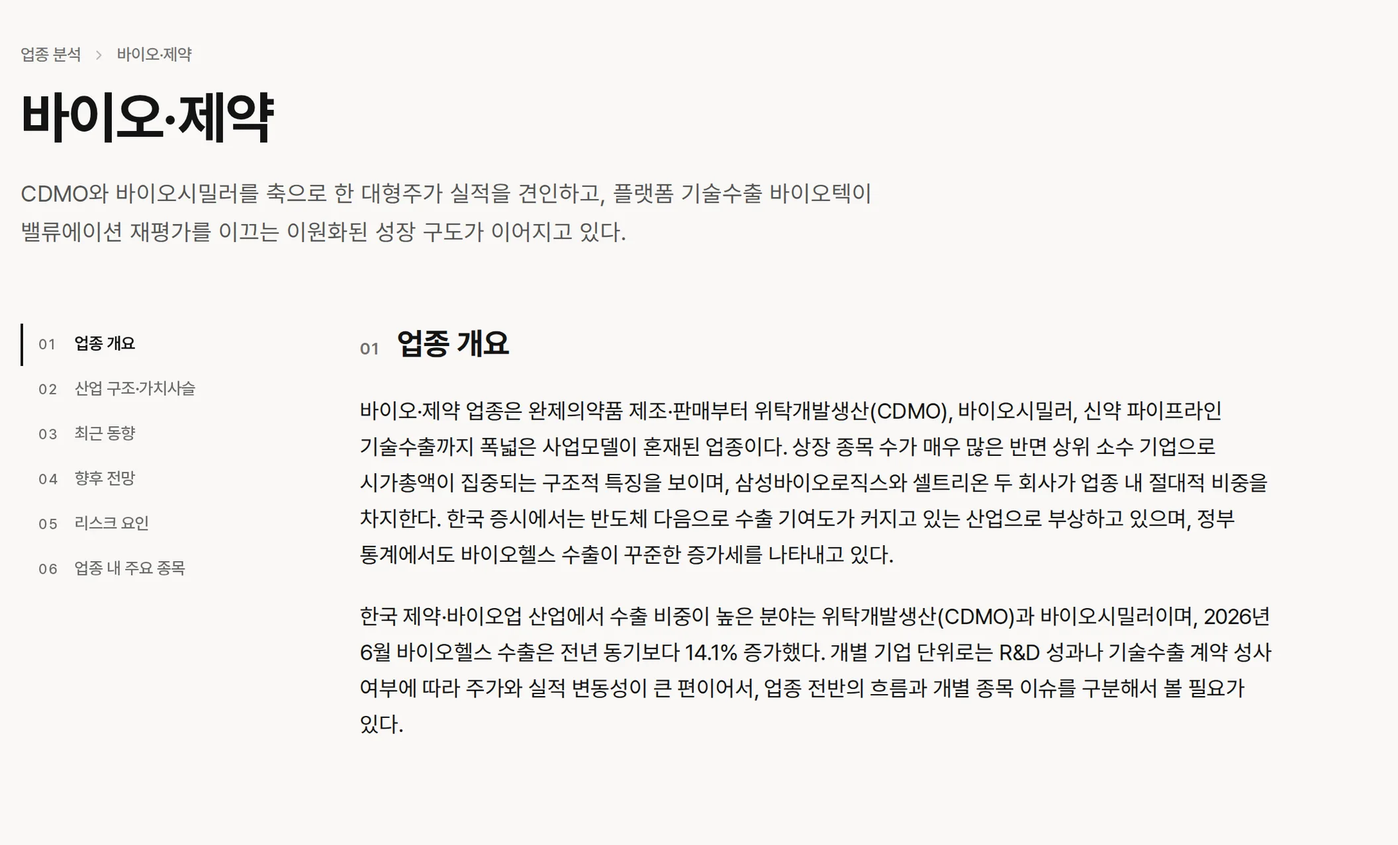
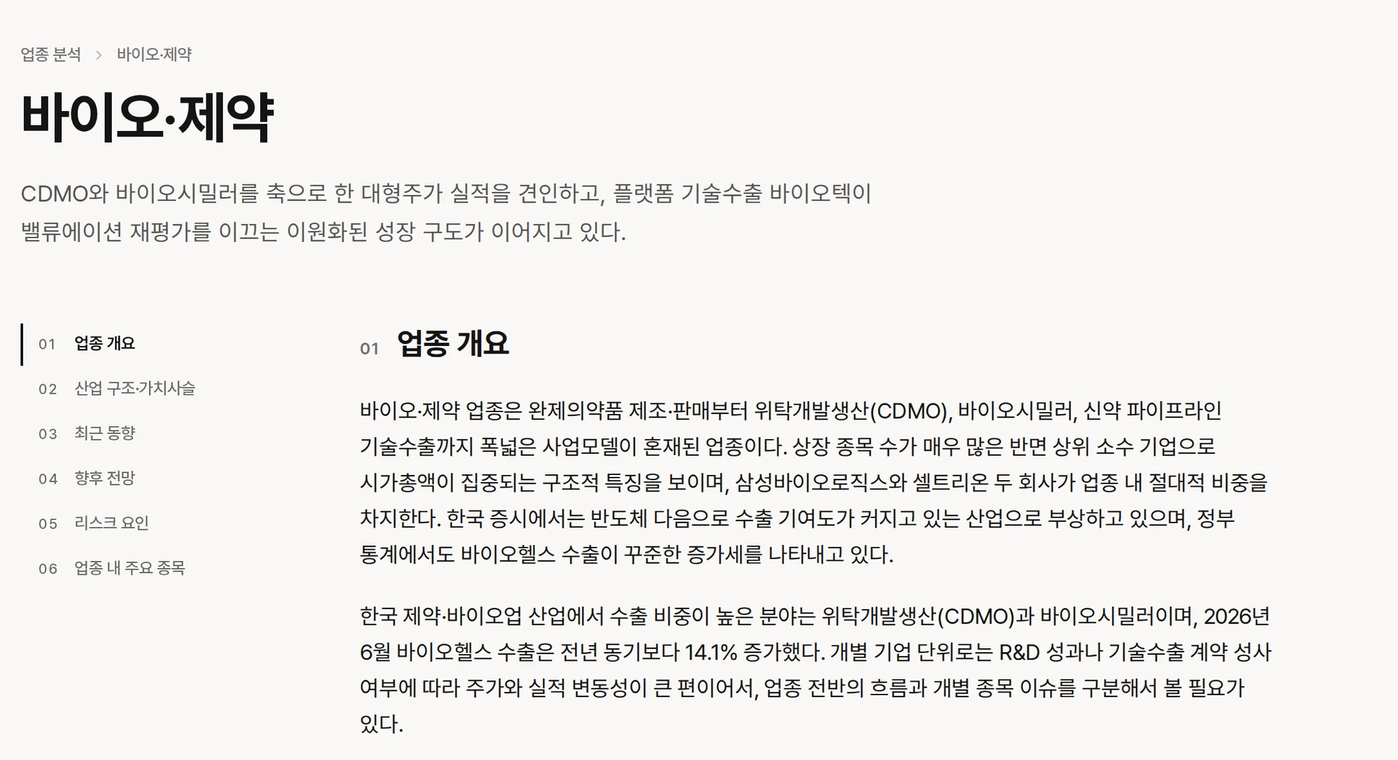
랜딩 업종 절 — 컴퓨터 화면 그림의 흐려지는 범위를 리포트 절과 같게
제목 비침을 고칠 때(#308) 업종 절 그림만 흐림을 아래 여백 64px 로 줄여
리포트 절과 흐려지는 범위가 달랐다(리포트 절은 그림 아래쪽 약 39%).

- .shot.full 이 위아래 여백 48px 과 마스크를 .shot 그대로 쓴다 — 흐림은
  그림 높이의 61~62% 에서 시작해 맨 아래에서 사라진다(두 절 모두)
- 그림 위치는 그대로다(바깥 여백 48→24px, 안쪽 여백 24→48px)
- 데스크톱 화면은 01 업종 개요의 마지막 글줄 아래 18px 에서 끊는다(TAIL) —
  리포트 절처럼 글이 그림 끝에서 풀리고, 다음 절 제목은 여전히 비치지 않는다
- 휴대폰 화면의 흐림도 두 절이 같은 값을 쓴다

Claude-Session: https://claude.ai/code/session_01V9w7AkGYKinAos3GPMJT9m

diff --git a/preview/concepts/landing/index.html b/preview/concepts/landing/index.html
@@ -1,4 +1,4 @@
-<!doctype html><html lang="ko"><head><meta charset="utf-8"><meta name="viewport" content="width=device-width,initial-scale=1,viewport-fit=cover"><meta name="robots" content="noindex,nofollow"><meta name="theme-color" content="#141414"><title>KOSAI — 국내 상장 2,682개 종목의 기업 분석 리포트</title><meta name="description" content="국내 상장 2,682개 종목의 기업 분석 리포트와 모닝브리핑, 업종 분석을 제공합니다."><meta property="og:title" content="KOSAI — 증권사가 다루지 않는 종목까지"><meta property="og:description" content="국내 상장 2,682개 종목의 기업 분석 리포트"><link rel="stylesheet" href="../../../fonts/pretendard-subset.css"><link rel="stylesheet" href="landing.css"><script>(function(){var t='light';try{t=localStorage.getItem('kos-theme')||'light'}catch(e){}var r=document.documentElement;r.setAttribute('data-theme',t);r.classList.add('band-top');if('IntersectionObserver' in window&&!matchMedia('(prefers-reduced-motion: reduce)').matches)r.classList.add('rv-on');document.querySelector('meta[name="theme-color"]').setAttribute('content',t==='dark'?'#1c1c1e':'#141414')})();</script></head><body><div id="kosEdgeTop" aria-hidden="true"></div><div id="kosEdgeBot" aria-hidden="true"></div><nav class="nav on-band" id="nav"><div class="nav-in"><a class="brand" href="#"><img class="lt" src="../../../assets/kosai-wordmark-black.png" alt="KOSAI"><img class="dk" src="../../../assets/kosai-wordmark-white.png" alt="KOSAI"></a><div class="links"><a href="#">홈</a><a href="#report">리포트</a><a href="#sectors">업종 분석</a><a href="#">관심종목</a><a href="#brief">모닝브리핑</a></div><div class="right"><a class="login" href="#">로그인</a><button class="ib" id="themeBtn" aria-label="테마 전환"><svg viewBox="0 0 24 24" id="themeIcon"><path d="M21 12.8A9 9 0 1 1 11.2 3a7 7 0 0 0 9.8 9.8z"/></svg></button><button class="ib menu" id="menuBtn" aria-label="메뉴" aria-expanded="false" aria-controls="mmenu"><svg class="ham" viewBox="0 0 24 24"><path d="M4 7h16M4 12h16M4 17h16"/></svg><svg class="x" viewBox="0 0 24 24"><path d="M6 6l12 12M18 6L6 18"/></svg></button></div></div></nav><div class="mmenu" id="mmenu"><div class="mm-links"><a href="#">홈</a><a href="#report">리포트</a><a href="#sectors">업종 분석</a><a href="#">관심종목</a><a href="#brief">모닝브리핑</a></div><div class="sep"></div><div class="mm-auth"><a href="#">로그인</a><a href="#">회원가입</a></div><div class="mm-foot"><a href="#">회사 소개</a><a href="#">문의하기</a><a href="#">피드백</a><a href="#">이용약관</a><a href="#">개인정보 처리방침</a></div></div><main><header class="hero dz" id="hero"><div class="hero-in w"><h1>증권사가 다루지 않는<br>종목까지</h1><p class="lede"><span class="s">국내 상장 <span class="num">2,682</span>개 종목의 기업 분석 리포트를 제공합니다.</span></p><form class="search" role="search" onsubmit="return false"><svg viewBox="0 0 24 24"><circle cx="11" cy="11" r="7"/><path d="M21 21l-3.5-3.5"/></svg><input placeholder="종목명 또는 종목코드" aria-label="종목 검색" autocomplete="off"><button class="btn btn-ink" type="button">리포트 찾기</button></form><div class="alt"><a class="more" href="#">전체 리포트 보기 <svg class="i" viewBox="0 0 24 24"><path d="M5 12h14M13 6l6 6-6 6"/></svg></a></div></div><div class="orb-box" aria-hidden="true"><canvas class="orb" id="orb"></canvas></div><script type="application/json" id="orbData">{"n":2682,"r":[22,56,85,116,120,137,169,174,247,261,272,273,278,288,293,297,369,399,417,537,579,586,629,636,694,721,722,727,732,735,740,794,796,811,821,875,890,907,912,923,969,1052,1055,1072,1108,1174,1192,1220,1275,1312,1317,1346,1350,1411,1419,1442,1527,1578,1585,1628,1672,1718,1724,1736,1745,1828,1866,1874,1899,1948,1956,1974,1977,1996,2001,2007,2102,2148,2173,2187,2195,2295,2319,2328,2331,2369,2404,2409,2421,2441,2534,2563,2565,2570,2577,2601,2616,2622]}</script></header><section class="sec w solo stat" id="gap"><h2 class="stat-h rv"><span class="h2">증권사 리포트가 없는<br class="m"> 국내 상장사</span> <span class="cnt stat-n">58.8%</span></h2><p class="sub rv"><span class="s">지난해 증권사 기업분석 보고서가 발간되지 않은 기업은 1,573개사입니다.</span> <span class="s">KOSAI는 해당 기업에 대해서도 분석 리포트를 제공합니다.</span></p><p class="src rv">자료: 한국IR협의회 기업리서치센터, 2025년 상장사 2,674개사 집계</p></section><section class="sec w" id="report"><div class="split"><div class="tx"><p class="eyebrow rv">리포트</p><h2 class="h2 rv">한 편에 담은<br>기업 분석</h2><p class="sub rv"><span class="s">사업 구조와 실적, 업황, 전망, 리스크를 차례로 정리합니다.</span> <span class="s">강세 요인과 약세 요인을 함께 제시해 어느 한쪽으로 치우치지 않습니다.</span></p></div><figure class="shot" role="img" aria-label="KOSAI 기업 분석 리포트의 실제 화면. 목차와 리포트 개요, 사업 구조, 실적 추이가 차례로 보입니다."><div class="scr desk"><img class="lt" src="img/report-desk-light.webp" width="1840" height="1413" alt="" loading="lazy" decoding="async"><img class="dk" src="img/report-desk-dark.webp" width="1840" height="1413" alt="" loading="lazy" decoding="async"></div><div class="scr m1"><img class="lt" src="img/report-m1-light.webp" width="900" height="1702" alt="" loading="lazy" decoding="async"><img class="dk" src="img/report-m1-dark.webp" width="900" height="1702" alt="" loading="lazy" decoding="async"></div><div class="scr m2"><img class="lt" src="img/report-m2-light.webp" width="900" height="1477" alt="" loading="lazy" decoding="async"><img class="dk" src="img/report-m2-dark.webp" width="900" height="1477" alt="" loading="lazy" decoding="async"></div></figure></div></section><section class="sec w solo"><h2 class="h2 rv">매수도 매도도<br>권하지 않습니다</h2><p class="sub rv"><span class="s">KOSAI는 자체 투자의견과 목표주가를 제시하지 않습니다.</span> <span class="s">투자 판단에 필요한 사실과 근거를 정리하는 데 집중합니다.</span></p></section><section class="sec w trust"><h2 class="h2 rv">리포트의<br>세 가지 원칙</h2><ul class="proof"><li class="rv"><h3>공시 원본 수치</h3><p><span class="s">실적 표와 차트의 수치는 금융감독원 전자공시(DART) 원본에서 가져오며, AI가 생성하지 않습니다.</span></p></li><li class="rv"><h3>출처 공개</h3><p><span class="s">분석의 근거가 된 자료를 리포트마다 출처로 공개합니다.</span> <span class="s">한 편당 평균 17.5건입니다.</span></p></li><li class="rv"><h3>발행 전 검수</h3><p><span class="s">투자 권유로 읽힐 수 있는 표현은 발행 전에 자동으로 검수해 수정합니다.</span></p></li></ul><a class="more rv" href="#">작성 방식 자세히 보기 <svg class="i" viewBox="0 0 24 24"><path d="M5 12h14M13 6l6 6-6 6"/></svg></a></section><section class="sec w" id="fresh"><div class="split rev"><div class="tx"><h2 class="h2 rv">공시와 함께<br>갱신되는 리포트</h2><p class="sub rv"><span class="s">분기보고서와 반기보고서, 사업보고서가 공시되면 리포트를 새로 작성합니다.</span> <span class="s">주가와 밸류에이션 지표는 거래일마다 반영합니다.</span></p></div><figure class="cyc" id="cyc" role="img" aria-label="2026년 한 해를 원으로 나타낸 그림입니다. 안쪽 선은 12월 결산 법인의 정기보고서 제출 기간입니다."><div class="cyc-box" id="cycBox"></div><figcaption class="cyc-lg"><span><i class="g-ar"></i>정기보고서 제출 기간<em>12월 결산 법인 기준</em></span></figcaption><script type="application/json" id="cycData">{"years":{"2026":{"y":2026,"n":365,"win":[["사업보고서",0,89,3,31],["1분기보고서",90,134,5,15],["반기보고서",181,225,8,14],["3분기보고서",273,319,11,16]]},"2027":{"y":2027,"n":365,"win":[["사업보고서",0,89,3,31],["1분기보고서",90,136,5,17],["반기보고서",181,228,8,17],["3분기보고서",273,318,11,15]]},"2028":{"y":2028,"n":366,"win":[["사업보고서",0,89,3,30],["1분기보고서",91,135,5,15],["반기보고서",182,226,8,14],["3분기보고서",274,318,11,14]]},"2029":{"y":2029,"n":365,"win":[["사업보고서",0,91,4,2],["1분기보고서",90,134,5,15],["반기보고서",181,225,8,14],["3분기보고서",273,317,11,14]]},"2030":{"y":2030,"n":365,"win":[["사업보고서",0,90,4,1],["1분기보고서",90,134,5,15],["반기보고서",181,225,8,14],["3분기보고서",273,317,11,14]]}},"t":{"label":"{y}년 한 해를 원으로 나타낸 그림입니다. 안쪽 선은 12월 결산 법인의 정기보고서 제출 기간입니다.","next":"{w} 제출 기한은 {m}월 {d}일입니다.","mon":"{m}월","due":"{m}월 {d}일까지","today":"오늘"}}</script></figure></div></section><section class="sec w stack" id="sectors"><p class="eyebrow rv">업종 분석</p><h2 class="h2 rv">30개 업종의<br>분석 리포트</h2><p class="sub rv"><span class="s">업종마다 산업 구조와 최근 동향, 향후 전망, 리스크 요인을 분석합니다.</span> <span class="s">개별 기업을 산업 전체의 맥락에서 살펴볼 수 있습니다.</span></p><a class="more rv" href="#">전체 업종 보기 <svg class="i" viewBox="0 0 24 24"><path d="M5 12h14M13 6l6 6-6 6"/></svg></a><figure class="shot full" role="img" aria-label="KOSAI 업종 분석의 실제 화면. 업종 요약과 목차, 업종 개요, 리스크 요인이 차례로 보입니다."><div class="scr desk"><img class="lt" src="img/sector-desk-light.webp" width="2112" height="1277" alt="" loading="lazy" decoding="async"><img class="dk" src="img/sector-desk-dark.webp" width="2112" height="1277" alt="" loading="lazy" decoding="async"></div><div class="scr m1"><img class="lt" src="img/sector-m1-light.webp" width="900" height="1702" alt="" loading="lazy" decoding="async"><img class="dk" src="img/sector-m1-dark.webp" width="900" height="1702" alt="" loading="lazy" decoding="async"></div><div class="scr m2"><img class="lt" src="img/sector-m2-light.webp" width="900" height="1477" alt="" loading="lazy" decoding="async"><img class="dk" src="img/sector-m2-dark.webp" width="900" height="1477" alt="" loading="lazy" decoding="async"></div></figure></section><section class="band dz" id="brief"><div class="w split"><div class="tx"><p class="eyebrow rv">모닝브리핑</p><h2 class="h2 rv">개장 전에 읽는<br>시장 브리핑</h2><p class="sub rv"><span class="s">전일 국내 증시와 간밤의 해외 시장, 주요 일정을 정리합니다.</span> <span class="s">발행 시각은 거래일 오전 7시 30분 전후입니다.</span></p><a class="more rv" href="#">제31호 읽기 <svg class="i" viewBox="0 0 24 24"><path d="M5 12h14M13 6l6 6-6 6"/></svg></a></div><figure class="slot" aria-label="사진 자리 — 개장 전 아침, 책상 위 휴대폰"><span class="st"><svg viewBox="0 0 24 24"><rect x="3.5" y="5" width="17" height="14" rx="2"/><path d="M3.5 16l5-5 4 4 3-3 5 5"/></svg>사진<span>1:1</span></span><figcaption>개장 전 아침, 책상 위 휴대폰</figcaption></figure></div></section><section class="end w"><h2 class="h2 rv">궁금한 종목의<br>리포트를 확인하세요</h2><div class="rv"><form class="search" role="search" onsubmit="return false"><svg viewBox="0 0 24 24"><circle cx="11" cy="11" r="7"/><path d="M21 21l-3.5-3.5"/></svg><input placeholder="종목명 또는 종목코드" aria-label="종목 검색" autocomplete="off"><button class="btn btn-ink" type="button">리포트 찾기</button></form></div></section></main><footer class="foot"><div class="w"><a class="brand" href="#"><img class="lt" src="../../../assets/kosai-wordmark-black.png" alt="KOSAI"><img class="dk" src="../../../assets/kosai-wordmark-white.png" alt="KOSAI"></a><div class="fgrid"><div class="fcol"><h4>서비스</h4><a href="#">홈</a><a href="#">리포트</a><a href="#">업종 분석</a><a href="#">관심종목</a><a href="#">모닝브리핑</a></div><div class="fcol"><h4>회사</h4><a href="#">회사 소개</a><a href="#">문의하기</a><a href="#">피드백</a></div><div class="fcol"><h4>정책</h4><a href="#">이용약관</a><a class="pp" href="#">개인정보 처리방침</a></div></div><div class="biz"><span>상호 코사이</span><span>대표 임범준</span><span>사업자등록번호 380-25-02019</span><span>주소 서울시 양천구 목동동로12길 50, 동성빌딩 4층 459호</span><span>이메일 hello@kosai.kr</span></div><div class="copy">© 2026 KOSAI</div></div></footer><script>(function(){var r=document.documentElement;if(!r.classList.contains('rv-on'))return;function bz(x){var lo=0,hi=1,t=x,u;for(var i=0;i<24;i++){t=(lo+hi)/2;u=1-t;if(3*u*u*t*.2+3*u*t*t*.2+t*t*t<x)lo=t;else hi=t}u=1-t;return 3*u*u*t*.7+3*u*t*t+t*t*t}function cnt(el,d){var s=el.textContent,m=s.match(/^(\d+)(?:\.(\d+))?(\D*)$/),tn=el.firstChild;if(!m||!tn||(document.fonts&&document.fonts.status!=='loaded'))return;var hd=el.parentNode,ip=m[1],fp=m[2]||'',to=parseFloat(ip+(fp?'.'+fp:'')),dp=fp.length,ch=s.split(''),h='',i,b,x=[],fs=parseFloat(getComputedStyle(el).fontSize),rg=document.createRange();for(i=0;i<ch.length;i++){rg.setStart(tn,i);rg.setEnd(tn,i+1);b=rg.getBoundingClientRect();x.push([b.left,b.width])}hd.setAttribute('aria-label',hd.textContent);el.setAttribute('aria-hidden','true');el.style.whiteSpace='nowrap';for(i=0;i<ch.length;i++)h+='<span>'+ch[i]+'</span>';el.innerHTML=h;var sp=el.children;for(i=0;i<sp.length;i++)sp[i].style.cssText='display:inline-block;text-align:center;width:'+((i<sp.length-1?x[i+1][0]-x[i][0]:x[i][1])/fs).toFixed(4)+'em';function show(v){var a=v.toFixed(dp).split('.'),n=ip.length,k;for(i=0;i<n;i++){k=a[0].length-n+i;sp[i].textContent=k>=0?a[0].charAt(k):''}for(i=0;i<dp;i++)sp[n+1+i].textContent=(a[1]||'').charAt(i)}show(0);var t0=null;function f(ts){if(t0===null)t0=ts+d*1000;var p=Math.max(0,Math.min(1,(ts-t0)/1000));if(p<1){show(to*bz(p));requestAnimationFrame(f)}else for(i=0;i<sp.length;i++)sp[i].textContent=ch[i]}requestAnimationFrame(f)}try{var io=new IntersectionObserver(function(es){var j=0;for(var k=0;k<es.length;k++){var e=es[k],t=e.target;if(e.isIntersecting){var d=Math.min(j++,5)*.08;t.style.setProperty('--d',d+'s');t.classList.add('in');io.unobserve(t);var c=t.querySelector('.cnt');if(c)cnt(c,d)}else if(e.boundingClientRect.top<0){t.classList.add('in');io.unobserve(t)}}},{rootMargin:'0px 0px -10% 0px'});var rv=document.querySelectorAll('.rv');for(var k=0;k<rv.length;k++)io.observe(rv[k])}catch(x){r.classList.remove('rv-on')}})();</script><script>(function(){
+<!doctype html><html lang="ko"><head><meta charset="utf-8"><meta name="viewport" content="width=device-width,initial-scale=1,viewport-fit=cover"><meta name="robots" content="noindex,nofollow"><meta name="theme-color" content="#141414"><title>KOSAI — 국내 상장 2,682개 종목의 기업 분석 리포트</title><meta name="description" content="국내 상장 2,682개 종목의 기업 분석 리포트와 모닝브리핑, 업종 분석을 제공합니다."><meta property="og:title" content="KOSAI — 증권사가 다루지 않는 종목까지"><meta property="og:description" content="국내 상장 2,682개 종목의 기업 분석 리포트"><link rel="stylesheet" href="../../../fonts/pretendard-subset.css"><link rel="stylesheet" href="landing.css"><script>(function(){var t='light';try{t=localStorage.getItem('kos-theme')||'light'}catch(e){}var r=document.documentElement;r.setAttribute('data-theme',t);r.classList.add('band-top');if('IntersectionObserver' in window&&!matchMedia('(prefers-reduced-motion: reduce)').matches)r.classList.add('rv-on');document.querySelector('meta[name="theme-color"]').setAttribute('content',t==='dark'?'#1c1c1e':'#141414')})();</script></head><body><div id="kosEdgeTop" aria-hidden="true"></div><div id="kosEdgeBot" aria-hidden="true"></div><nav class="nav on-band" id="nav"><div class="nav-in"><a class="brand" href="#"><img class="lt" src="../../../assets/kosai-wordmark-black.png" alt="KOSAI"><img class="dk" src="../../../assets/kosai-wordmark-white.png" alt="KOSAI"></a><div class="links"><a href="#">홈</a><a href="#report">리포트</a><a href="#sectors">업종 분석</a><a href="#">관심종목</a><a href="#brief">모닝브리핑</a></div><div class="right"><a class="login" href="#">로그인</a><button class="ib" id="themeBtn" aria-label="테마 전환"><svg viewBox="0 0 24 24" id="themeIcon"><path d="M21 12.8A9 9 0 1 1 11.2 3a7 7 0 0 0 9.8 9.8z"/></svg></button><button class="ib menu" id="menuBtn" aria-label="메뉴" aria-expanded="false" aria-controls="mmenu"><svg class="ham" viewBox="0 0 24 24"><path d="M4 7h16M4 12h16M4 17h16"/></svg><svg class="x" viewBox="0 0 24 24"><path d="M6 6l12 12M18 6L6 18"/></svg></button></div></div></nav><div class="mmenu" id="mmenu"><div class="mm-links"><a href="#">홈</a><a href="#report">리포트</a><a href="#sectors">업종 분석</a><a href="#">관심종목</a><a href="#brief">모닝브리핑</a></div><div class="sep"></div><div class="mm-auth"><a href="#">로그인</a><a href="#">회원가입</a></div><div class="mm-foot"><a href="#">회사 소개</a><a href="#">문의하기</a><a href="#">피드백</a><a href="#">이용약관</a><a href="#">개인정보 처리방침</a></div></div><main><header class="hero dz" id="hero"><div class="hero-in w"><h1>증권사가 다루지 않는<br>종목까지</h1><p class="lede"><span class="s">국내 상장 <span class="num">2,682</span>개 종목의 기업 분석 리포트를 제공합니다.</span></p><form class="search" role="search" onsubmit="return false"><svg viewBox="0 0 24 24"><circle cx="11" cy="11" r="7"/><path d="M21 21l-3.5-3.5"/></svg><input placeholder="종목명 또는 종목코드" aria-label="종목 검색" autocomplete="off"><button class="btn btn-ink" type="button">리포트 찾기</button></form><div class="alt"><a class="more" href="#">전체 리포트 보기 <svg class="i" viewBox="0 0 24 24"><path d="M5 12h14M13 6l6 6-6 6"/></svg></a></div></div><div class="orb-box" aria-hidden="true"><canvas class="orb" id="orb"></canvas></div><script type="application/json" id="orbData">{"n":2682,"r":[22,56,85,116,120,137,169,174,247,261,272,273,278,288,293,297,369,399,417,537,579,586,629,636,694,721,722,727,732,735,740,794,796,811,821,875,890,907,912,923,969,1052,1055,1072,1108,1174,1192,1220,1275,1312,1317,1346,1350,1411,1419,1442,1527,1578,1585,1628,1672,1718,1724,1736,1745,1828,1866,1874,1899,1948,1956,1974,1977,1996,2001,2007,2102,2148,2173,2187,2195,2295,2319,2328,2331,2369,2404,2409,2421,2441,2534,2563,2565,2570,2577,2601,2616,2622]}</script></header><section class="sec w solo stat" id="gap"><h2 class="stat-h rv"><span class="h2">증권사 리포트가 없는<br class="m"> 국내 상장사</span> <span class="cnt stat-n">58.8%</span></h2><p class="sub rv"><span class="s">지난해 증권사 기업분석 보고서가 발간되지 않은 기업은 1,573개사입니다.</span> <span class="s">KOSAI는 해당 기업에 대해서도 분석 리포트를 제공합니다.</span></p><p class="src rv">자료: 한국IR협의회 기업리서치센터, 2025년 상장사 2,674개사 집계</p></section><section class="sec w" id="report"><div class="split"><div class="tx"><p class="eyebrow rv">리포트</p><h2 class="h2 rv">한 편에 담은<br>기업 분석</h2><p class="sub rv"><span class="s">사업 구조와 실적, 업황, 전망, 리스크를 차례로 정리합니다.</span> <span class="s">강세 요인과 약세 요인을 함께 제시해 어느 한쪽으로 치우치지 않습니다.</span></p></div><figure class="shot" role="img" aria-label="KOSAI 기업 분석 리포트의 실제 화면. 목차와 리포트 개요, 사업 구조, 실적 추이가 차례로 보입니다."><div class="scr desk"><img class="lt" src="img/report-desk-light.webp" width="1840" height="1413" alt="" loading="lazy" decoding="async"><img class="dk" src="img/report-desk-dark.webp" width="1840" height="1413" alt="" loading="lazy" decoding="async"></div><div class="scr m1"><img class="lt" src="img/report-m1-light.webp" width="900" height="1702" alt="" loading="lazy" decoding="async"><img class="dk" src="img/report-m1-dark.webp" width="900" height="1702" alt="" loading="lazy" decoding="async"></div><div class="scr m2"><img class="lt" src="img/report-m2-light.webp" width="900" height="1477" alt="" loading="lazy" decoding="async"><img class="dk" src="img/report-m2-dark.webp" width="900" height="1477" alt="" loading="lazy" decoding="async"></div></figure></div></section><section class="sec w solo"><h2 class="h2 rv">매수도 매도도<br>권하지 않습니다</h2><p class="sub rv"><span class="s">KOSAI는 자체 투자의견과 목표주가를 제시하지 않습니다.</span> <span class="s">투자 판단에 필요한 사실과 근거를 정리하는 데 집중합니다.</span></p></section><section class="sec w trust"><h2 class="h2 rv">리포트의<br>세 가지 원칙</h2><ul class="proof"><li class="rv"><h3>공시 원본 수치</h3><p><span class="s">실적 표와 차트의 수치는 금융감독원 전자공시(DART) 원본에서 가져오며, AI가 생성하지 않습니다.</span></p></li><li class="rv"><h3>출처 공개</h3><p><span class="s">분석의 근거가 된 자료를 리포트마다 출처로 공개합니다.</span> <span class="s">한 편당 평균 17.5건입니다.</span></p></li><li class="rv"><h3>발행 전 검수</h3><p><span class="s">투자 권유로 읽힐 수 있는 표현은 발행 전에 자동으로 검수해 수정합니다.</span></p></li></ul><a class="more rv" href="#">작성 방식 자세히 보기 <svg class="i" viewBox="0 0 24 24"><path d="M5 12h14M13 6l6 6-6 6"/></svg></a></section><section class="sec w" id="fresh"><div class="split rev"><div class="tx"><h2 class="h2 rv">공시와 함께<br>갱신되는 리포트</h2><p class="sub rv"><span class="s">분기보고서와 반기보고서, 사업보고서가 공시되면 리포트를 새로 작성합니다.</span> <span class="s">주가와 밸류에이션 지표는 거래일마다 반영합니다.</span></p></div><figure class="cyc" id="cyc" role="img" aria-label="2026년 한 해를 원으로 나타낸 그림입니다. 안쪽 선은 12월 결산 법인의 정기보고서 제출 기간입니다."><div class="cyc-box" id="cycBox"></div><figcaption class="cyc-lg"><span><i class="g-ar"></i>정기보고서 제출 기간<em>12월 결산 법인 기준</em></span></figcaption><script type="application/json" id="cycData">{"years":{"2026":{"y":2026,"n":365,"win":[["사업보고서",0,89,3,31],["1분기보고서",90,134,5,15],["반기보고서",181,225,8,14],["3분기보고서",273,319,11,16]]},"2027":{"y":2027,"n":365,"win":[["사업보고서",0,89,3,31],["1분기보고서",90,136,5,17],["반기보고서",181,228,8,17],["3분기보고서",273,318,11,15]]},"2028":{"y":2028,"n":366,"win":[["사업보고서",0,89,3,30],["1분기보고서",91,135,5,15],["반기보고서",182,226,8,14],["3분기보고서",274,318,11,14]]},"2029":{"y":2029,"n":365,"win":[["사업보고서",0,91,4,2],["1분기보고서",90,134,5,15],["반기보고서",181,225,8,14],["3분기보고서",273,317,11,14]]},"2030":{"y":2030,"n":365,"win":[["사업보고서",0,90,4,1],["1분기보고서",90,134,5,15],["반기보고서",181,225,8,14],["3분기보고서",273,317,11,14]]}},"t":{"label":"{y}년 한 해를 원으로 나타낸 그림입니다. 안쪽 선은 12월 결산 법인의 정기보고서 제출 기간입니다.","next":"{w} 제출 기한은 {m}월 {d}일입니다.","mon":"{m}월","due":"{m}월 {d}일까지","today":"오늘"}}</script></figure></div></section><section class="sec w stack" id="sectors"><p class="eyebrow rv">업종 분석</p><h2 class="h2 rv">30개 업종의<br>분석 리포트</h2><p class="sub rv"><span class="s">업종마다 산업 구조와 최근 동향, 향후 전망, 리스크 요인을 분석합니다.</span> <span class="s">개별 기업을 산업 전체의 맥락에서 살펴볼 수 있습니다.</span></p><a class="more rv" href="#">전체 업종 보기 <svg class="i" viewBox="0 0 24 24"><path d="M5 12h14M13 6l6 6-6 6"/></svg></a><figure class="shot full" role="img" aria-label="KOSAI 업종 분석의 실제 화면. 업종 요약과 목차, 업종 개요, 리스크 요인이 차례로 보입니다."><div class="scr desk"><img class="lt" src="img/sector-desk-light.webp" width="2112" height="1149" alt="" loading="lazy" decoding="async"><img class="dk" src="img/sector-desk-dark.webp" width="2112" height="1149" alt="" loading="lazy" decoding="async"></div><div class="scr m1"><img class="lt" src="img/sector-m1-light.webp" width="900" height="1702" alt="" loading="lazy" decoding="async"><img class="dk" src="img/sector-m1-dark.webp" width="900" height="1702" alt="" loading="lazy" decoding="async"></div><div class="scr m2"><img class="lt" src="img/sector-m2-light.webp" width="900" height="1477" alt="" loading="lazy" decoding="async"><img class="dk" src="img/sector-m2-dark.webp" width="900" height="1477" alt="" loading="lazy" decoding="async"></div></figure></section><section class="band dz" id="brief"><div class="w split"><div class="tx"><p class="eyebrow rv">모닝브리핑</p><h2 class="h2 rv">개장 전에 읽는<br>시장 브리핑</h2><p class="sub rv"><span class="s">전일 국내 증시와 간밤의 해외 시장, 주요 일정을 정리합니다.</span> <span class="s">발행 시각은 거래일 오전 7시 30분 전후입니다.</span></p><a class="more rv" href="#">제31호 읽기 <svg class="i" viewBox="0 0 24 24"><path d="M5 12h14M13 6l6 6-6 6"/></svg></a></div><figure class="slot" aria-label="사진 자리 — 개장 전 아침, 책상 위 휴대폰"><span class="st"><svg viewBox="0 0 24 24"><rect x="3.5" y="5" width="17" height="14" rx="2"/><path d="M3.5 16l5-5 4 4 3-3 5 5"/></svg>사진<span>1:1</span></span><figcaption>개장 전 아침, 책상 위 휴대폰</figcaption></figure></div></section><section class="end w"><h2 class="h2 rv">궁금한 종목의<br>리포트를 확인하세요</h2><div class="rv"><form class="search" role="search" onsubmit="return false"><svg viewBox="0 0 24 24"><circle cx="11" cy="11" r="7"/><path d="M21 21l-3.5-3.5"/></svg><input placeholder="종목명 또는 종목코드" aria-label="종목 검색" autocomplete="off"><button class="btn btn-ink" type="button">리포트 찾기</button></form></div></section></main><footer class="foot"><div class="w"><a class="brand" href="#"><img class="lt" src="../../../assets/kosai-wordmark-black.png" alt="KOSAI"><img class="dk" src="../../../assets/kosai-wordmark-white.png" alt="KOSAI"></a><div class="fgrid"><div class="fcol"><h4>서비스</h4><a href="#">홈</a><a href="#">리포트</a><a href="#">업종 분석</a><a href="#">관심종목</a><a href="#">모닝브리핑</a></div><div class="fcol"><h4>회사</h4><a href="#">회사 소개</a><a href="#">문의하기</a><a href="#">피드백</a></div><div class="fcol"><h4>정책</h4><a href="#">이용약관</a><a class="pp" href="#">개인정보 처리방침</a></div></div><div class="biz"><span>상호 코사이</span><span>대표 임범준</span><span>사업자등록번호 380-25-02019</span><span>주소 서울시 양천구 목동동로12길 50, 동성빌딩 4층 459호</span><span>이메일 hello@kosai.kr</span></div><div class="copy">© 2026 KOSAI</div></div></footer><script>(function(){var r=document.documentElement;if(!r.classList.contains('rv-on'))return;function bz(x){var lo=0,hi=1,t=x,u;for(var i=0;i<24;i++){t=(lo+hi)/2;u=1-t;if(3*u*u*t*.2+3*u*t*t*.2+t*t*t<x)lo=t;else hi=t}u=1-t;return 3*u*u*t*.7+3*u*t*t+t*t*t}function cnt(el,d){var s=el.textContent,m=s.match(/^(\d+)(?:\.(\d+))?(\D*)$/),tn=el.firstChild;if(!m||!tn||(document.fonts&&document.fonts.status!=='loaded'))return;var hd=el.parentNode,ip=m[1],fp=m[2]||'',to=parseFloat(ip+(fp?'.'+fp:'')),dp=fp.length,ch=s.split(''),h='',i,b,x=[],fs=parseFloat(getComputedStyle(el).fontSize),rg=document.createRange();for(i=0;i<ch.length;i++){rg.setStart(tn,i);rg.setEnd(tn,i+1);b=rg.getBoundingClientRect();x.push([b.left,b.width])}hd.setAttribute('aria-label',hd.textContent);el.setAttribute('aria-hidden','true');el.style.whiteSpace='nowrap';for(i=0;i<ch.length;i++)h+='<span>'+ch[i]+'</span>';el.innerHTML=h;var sp=el.children;for(i=0;i<sp.length;i++)sp[i].style.cssText='display:inline-block;text-align:center;width:'+((i<sp.length-1?x[i+1][0]-x[i][0]:x[i][1])/fs).toFixed(4)+'em';function show(v){var a=v.toFixed(dp).split('.'),n=ip.length,k;for(i=0;i<n;i++){k=a[0].length-n+i;sp[i].textContent=k>=0?a[0].charAt(k):''}for(i=0;i<dp;i++)sp[n+1+i].textContent=(a[1]||'').charAt(i)}show(0);var t0=null;function f(ts){if(t0===null)t0=ts+d*1000;var p=Math.max(0,Math.min(1,(ts-t0)/1000));if(p<1){show(to*bz(p));requestAnimationFrame(f)}else for(i=0;i<sp.length;i++)sp[i].textContent=ch[i]}requestAnimationFrame(f)}try{var io=new IntersectionObserver(function(es){var j=0;for(var k=0;k<es.length;k++){var e=es[k],t=e.target;if(e.isIntersecting){var d=Math.min(j++,5)*.08;t.style.setProperty('--d',d+'s');t.classList.add('in');io.unobserve(t);var c=t.querySelector('.cnt');if(c)cnt(c,d)}else if(e.boundingClientRect.top<0){t.classList.add('in');io.unobserve(t)}}},{rootMargin:'0px 0px -10% 0px'});var rv=document.querySelectorAll('.rv');for(var k=0;k<rv.length;k++)io.observe(rv[k])}catch(x){r.classList.remove('rv-on')}})();</script><script>(function(){
 var fg=document.getElementById('cyc'),box=document.getElementById('cycBox'),el=document.getElementById('cycData');if(!fg||!box||!el)return;
 var A=JSON.parse(el.textContent),Y=A.years,T=A.t,ks=Object.keys(Y).sort(),D=null,ti=-1,day='';
 function fill(s,o){return s.replace(/\{(\w+)\}/g,function(m,k){return k in o?o[k]:m})}

diff --git a/scripts/concepts/landing_art.py b/scripts/concepts/landing_art.py
@@ -46,14 +46,16 @@ NAV = 60   # 머리 줄 높이 — 찍은 뒤 덜어 낸다
 M1 = 700 + 390 * .25   # 왼쪽 휴대폰 화면의 아래 끝 — 오른쪽(700)보다 화면 폭의 25% 길다. 랜딩의 .m2{margin-top:12%} ÷ 화면 폭 48%
 # 이름: (화면 폭, 높이, 배율, 머리 아래 올 절(None 이면 맨 위 그대로), 그 절의 화면 위 거리, 자를 범위(화면 좌표 x0 · y0 · x1 · y1),
 #        저장 폭, 켜져 있어야 할 목차, 아래를 끊을 자리(선택자와 그 위쪽 여유 — 자를 범위의 y1 보다 위면 거기서 끊는다, None 이면 y1 그대로.
-#        데스크톱 화면은 거기서 자르고, 휴대폰 화면은 크기를 지키려고 그 아래를 바탕색으로 덮는다))
+#        데스크톱 화면은 그 위 마지막 글줄 아래 TAIL 에서 자르고, 휴대폰 화면은 크기를 지키려고 그 아래를 바탕색으로 덮는다))
+TAIL = 18   # 데스크톱 화면을 끊을 때 마지막 글줄 아래에 남기는 여백 — 리포트 절 데스크톱 화면의 마지막 글줄도 그림 끝에서 이만큼 위다
 SHOTS = {
     "desk": (1280, 1000, 2, "#s01", 92, (56, NAV, 1280, 1000), 1840, "01", None),
     "m1": (390, 844, 3, "#s01", 112, (0, NAV, 390, M1), 900, "01", ("#s02", 8)),
     "m2": (390, 844, 3, "#s03", 112, (0, NAV, 390, 700), 900, "03", ("#s04", 8)),
 }
-# 업종 화면 — 데스크톱은 본문 폭(1056px)에 16px 씩 여유를 둔 범위를 2112px(2배)로 담는다. 아래는 다음 절(02) 제목 8px 위, 01 업종 개요가
-# 끝난 여백에서 끊는다 — 제목 윗부분이 그림 끝에 흐리게 비쳤다(사장 2026-10-01 "글씨가 살짝 보이는데 저거 거슬리네")
+# 업종 화면 — 데스크톱은 본문 폭(1056px)에 16px 씩 여유를 둔 범위를 2112px(2배)로 담는다. 아래는 다음 절(02) 제목에 닿기 전, 01 업종 개요의
+# 마지막 글줄 아래 TAIL 에서 끊는다 — 처음에는 제목 윗부분이 그림 끝에 흐리게 비쳤고(사장 2026-10-01 "글씨가 살짝 보이는데 저거 거슬리네"),
+# 그 뒤 여백까지 담았을 때는 리포트 절처럼 글이 그림 끝에서 풀리지 않아 흐려지는 범위가 달라 보였다(사장 "왜 달라??")
 SECTOR_SHOTS = {
     "desk": (1280, 900, 2, None, 0, (96, 84, 1184, 760), 2112, "01", ("#s02", 8)),
     "m1": (390, 844, 3, None, 0, (0, NAV, 390, M1), 900, "01", ("#s02", 8)),
@@ -63,14 +65,16 @@ HIDE = ".stats,.stats-note{display:none!important}"   # 업종 화면의 매일 
 
 
 # 끊는 선(y)에 글줄이 걸쳐 있으면 그 줄 위로 올린다 — 올린 자리에 또 걸치면 거듭. 그 위 줄이 선에 6px 안으로 붙어 있어도 뺀다(가장자리에
-# 붙은 줄은 잘린 것처럼 보인다 · 6px 은 본문 줄 사이 틈보다 작아 한 줄만 빠진다). 글줄은 글자 칸(Range 의 줄 상자)으로 잰다
+# 붙은 줄은 잘린 것처럼 보인다 · 6px 은 본문 줄 사이 틈보다 작아 한 줄만 빠진다). 글줄은 글자 칸(Range 의 줄 상자)으로 잰다.
+# 돌려주는 값은 [끊는 선, 그 위 마지막 글줄의 아래]
 LAST_LINE = """([x0,x1,y])=>{const rows=[];const tw=document.createTreeWalker(document.body,NodeFilter.SHOW_TEXT);
   for(let n;(n=tw.nextNode());){if(!n.textContent.trim())continue;const r=document.createRange();r.selectNodeContents(n);
     for(const b of r.getClientRects())if(b.width&&b.height&&b.right>x0&&b.left<x1)rows.push([b.top,b.bottom])}
   for(const t of document.querySelectorAll('svg text')){const b=t.getBoundingClientRect();if(b.width&&b.right>x0&&b.left<x1)rows.push([b.top,b.bottom])}
   const up=()=>{for(let moved=true;moved;){moved=false;for(const [t,b] of rows)if(t<y&&b>y){y=t;moved=true}}};
   up();const near=rows.filter(([t,b])=>b<=y&&b>y-6);if(near.length){y=Math.min(...near.map(r=>r[0]));up()}
-  return y}"""
+  const above=rows.filter(([t,b])=>b<=y).map(r=>r[1]);
+  return [y,above.length?Math.max(...above):y]}"""
 
 
 class Quiet(SimpleHTTPRequestHandler):
@@ -107,9 +111,9 @@ def take(br, url, shots, prefix, route=None, css=None):
             if cut:
                 stop = min(y1, round(pg.evaluate("s=>{const e=document.querySelector(s);return e?e.getBoundingClientRect().top:1e9}",
                                                  cut[0])) - cut[1])
-                if not phone:
-                    y1 = stop
-            stop = pg.evaluate(LAST_LINE, [x0, x1, stop])   # 아래 끝에 걸친 글줄은 통째로 뺀다
+            stop, ink = pg.evaluate(LAST_LINE, [x0, x1, stop])   # 아래 끝에 걸친 글줄은 통째로 뺀다
+            if cut and not phone:   # 데스크톱 화면은 마지막 글줄 아래 TAIL 에서 자른다 — 글이 그림 끝에서 풀려야 흐려지는 범위가 리포트 절과 같다
+                y1 = stop = min(stop, round(ink) + TAIL)
             ctx.close()
             im = im.crop((x0 * dpr, y0 * dpr, x1 * dpr, y1 * dpr))
             fy = round((stop - y0) * dpr)

diff --git a/CLAUDE.md b/CLAUDE.md
@@ -550,8 +550,10 @@ PR 하나, 스테이징·실사이트 같이. 조사 원자료는 `docs/design/r
     제목 '30개 업종의 분석 리포트', 서브 '업종마다 산업 구조와 최근 동향, 향후 전망, 리스크 요인을 분석합니다. …'(항목은 업종 화면의 실제 목차) —
     '흐름'(업종 수만 말한다) · '정리합니다'(분류로 읽힌다)로 되돌리지 말 것. 그림은 실제 업종 분석 화면(바이오·제약 — 사장 지정)을 리포트 절과 같은 옷으로:
     넓은 화면은 데스크톱 화면 한 장을 본문 폭 그대로(`.shot.full` — 제목 아래에 쌓는 절이라 오른쪽으로 잇지 않는다), 820px 이하는 휴대폰 화면 두 장
-    (01 업종 개요 · 05 리스크 요인). 데스크톱 화면은 01 업종 개요가 끝난 여백(다음 절 제목 8px 위)에서 끊고, 흐려지는 구간은 그 여백 64px 에만 건다 —
-    처음에는 다음 절 제목 윗부분이 그림 끝에 흐리게 비쳤다(사장 "글씨가 살짝 보이는데 저거 거슬리네"). 휴대폰 화면은 리포트 절처럼 글이 이어지다 풀린다.
+    (01 업종 개요 · 05 리스크 요인). 데스크톱 화면은 다음 절 제목에 닿기 전, 01 업종 개요의 마지막 글줄 아래 18px 에서 끊는다(`landing_art.py` 의
+    `TAIL`) — 처음에는 다음 절 제목 윗부분이 그림 끝에 흐리게 비쳤다(사장 "글씨가 살짝 보이는데 저거 거슬리네"). **흐려지는 범위는 리포트 절과 같다**
+    (그림 아래쪽 약 39% · 위아래 여백 48px 과 마스크를 `.shot` 그대로 — 사장 "컴퓨터 화면에서 흐려지는 범위가 리포트 절이랑 업종 절이 왜 달라??").
+    한때 업종 절만 흐림을 아래 여백 64px 로 줄여 두 절이 달라 보였다 — 한쪽 그림만 따로 고치지 말 것. 휴대폰 화면도 두 절이 같은 값이다.
     머리의 수치 줄(시가총액 합계 · 시장 비중 · 종목 수 · 평균 등락률)과 기준 줄은 매일 바뀌는 값이라 가리고 찍는다
     (`landing_art.py sector` — 찍기 전에 검사 둘을 돌려 걸리면 멈춘다). 업종 분석 글(data/sectors.js)이 새로 쓰이거나 업종 화면 디자인이 바뀌면 다시 찍는다.
     바이오·제약의 요약 문장은 성장 쪽이 중심이라 휴대폰의 리스크 요인 화면이 균형을 잡는다. 업종마다 기업 수를 그린 지도(점 묶음 · 칸 넓이)는
